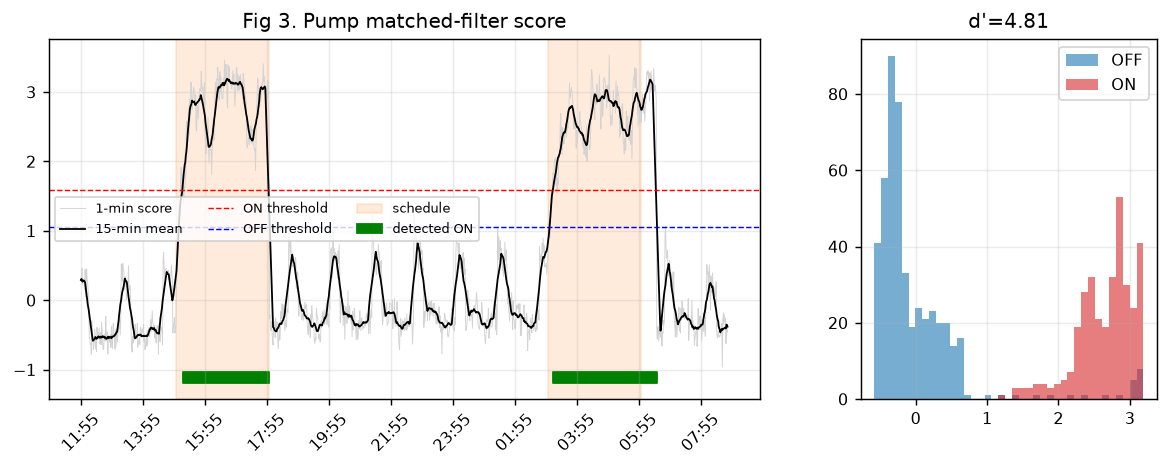
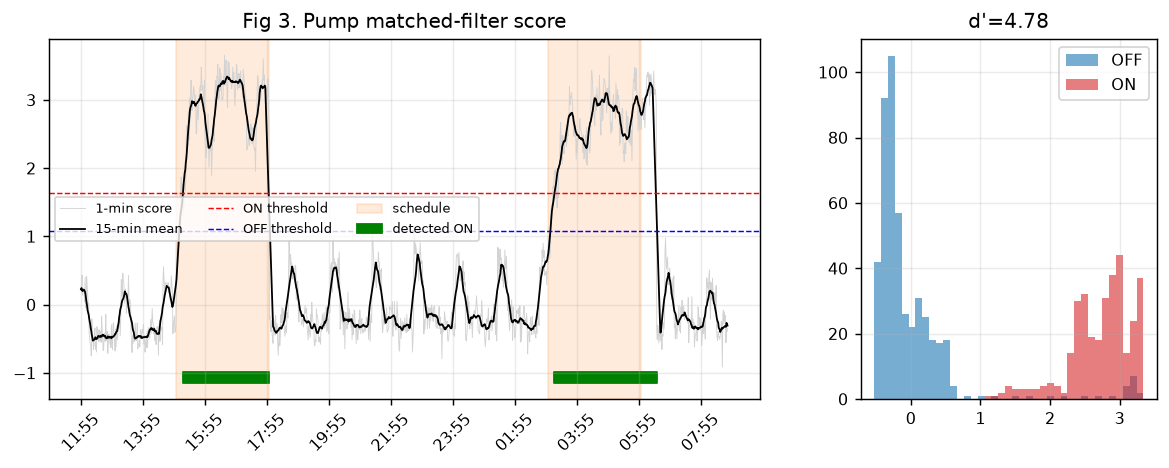
Address independent review: fix duplicate-line bug, soften pump claim, drop invalid fan null, audio-first vehicle plan, mic-array roadmap

diff --git a/analysis/make_report.py b/analysis/make_report.py
@@ -111,8 +111,7 @@ def topk_sig(F, prs, sd, K=10):
     t = np.nan_to_num(t, nan=-9)
     pt = np.pad(t, 3, constant_values=-9)
     loc = t >= np.lib.stride_tricks.sliding_window_view(pt, 7).max(axis=1)
-    cand = np.where(loc & (t > 0))[0]
-    cand = cand[np.argsort(t[cand])[::-1][:K]]
+    cand = h.nms(t, np.where(loc & (t > 0))[0], K)
     offall = np.any([f for _, f in prs], axis=0)
     mu, sdv = F[offall][:, cand].mean(0), F[offall][:, cand].std(0) + 1e-3
     w = np.maximum(t[cand], 1e-3); w = w / w.sum()
@@ -294,28 +293,8 @@ for k, c in curves.items():
     mad = 1.4826 * np.nanmedian(abs(c - np.nanmedian(c))) + 1e-6
     R["fan"][k] = dict(best_phase=int(np.nanargmax(c)), peak=float(np.nanmax(c)), median=float(np.nanmedian(c)),
                        robust_confidence=float((np.nanmax(c) - np.nanmedian(c)) / mad))
-# permutation null of the peak: each 60-min block is circularly rotated by an independent random amount
-NPF = 150
-nullpk = {k: [] for k in feats}
-hours_block = (tm - tm[0]) // 60
-for _ in range(NPF):
-    perm = np.arange(T)
-    for b in np.unique(hours_block):
-        idx = np.flatnonzero(hours_block == b)
-        perm[idx] = np.roll(idx, rng.integers(0, len(idx)))
-    for k, F in feats.items():
-        Fp = F[perm]
-        c = np.full(60, np.nan)
-        for ph in range(0, 60, 2):                      # 30 phases are enough for the null peak
-            pr = fan_pairs(ph)
-            if len(pr) >= 3:
-                t, _ = h.tvals(Fp, pr, sdref[k])
-                c[ph] = np.sort(np.nan_to_num(t, nan=-9))[-4:].mean()
-        nullpk[k].append(np.nanmax(c))
-for k in feats:
-    a = np.array(nullpk[k])
-    R["fan"][k]["perm_null"] = dict(n=NPF, p95=float(np.percentile(a, 95)), p99=float(np.percentile(a, 99)),
-                                    p_value=float((1 + (a >= R["fan"][k]["peak"]).sum()) / (1 + NPF)))
+# (a block-rotation surrogate was removed: its wrap-around seam creates coherent hourly structure, so it is not a valid null.
+#  The hourly hypothesis is judged by BLS at P = 60 min, fig9, and by the detection limit, fig8.)
 
 # phase-free test: Fourier amplitude at the 60-min period per bin vs neighbouring periods
 Xf = np.where(np.isnan(FT), 0, FT)                      # gaps -> 0 (only edges)
@@ -336,8 +315,7 @@ R["fan"]["period60_bins_z_gt3"] = [dict(hz=round(float(freq[i]), 1), z=round(flo
 fig, ax = plt.subplots(2, 2, figsize=(11, 6.5))
 for k, a_ in zip(feats, ax[0]):
     a_.plot(range(60), curves[k], "k.-")
-    a_.axhline(np.percentile(nullpk[k], 95), color="orange", ls="--", label="perm null 95%")
-    a_.axhline(np.percentile(nullpk[k], 99), color="r", ls="--", label="perm null 99%")
+    a_.axhline(np.nanmedian(curves[k]), color="gray", ls="--", label="median over phases")
     a_.set_title("Fig 5. Fan phase scan - %s features" % k); a_.set_xlabel("assumed start minute of the hour"); a_.set_ylabel("mean of 4 strongest line t-values"); a_.legend(fontsize=7)
 ax[1, 0].plot(freq, zline, lw=.6, color="k"); ax[1, 0].axhline(3, color="orange", ls="--"); ax[1, 0].axhline(4, color="r", ls="--")
 ax[1, 0].set_xlabel("Hz"); ax[1, 0].set_ylabel("z of 60-min Fourier line"); ax[1, 0].set_title("Fig 6a. Phase-free test: 1/60 min^-1 component per frequency bin")

diff --git a/hvac_listen.py b/hvac_listen.py
@@ -240,14 +240,24 @@ def tvals(F, pairs, sd_ref):
     return D.mean(0) / (sd_ref * np.sqrt(15.0 / max(non, 1) + 15.0 / max(noff, 1)) + 1e-3), n
 
 
+def nms(t, cand, K, sep=3):
+    """Greedy non-maximum suppression: max-pooled features make a line a plateau of equal t values, so keep one bin per line."""
+    keep = []
+    for i in cand[np.argsort(t[cand])[::-1]]:
+        if all(abs(int(i) - j) > sep for j in keep):
+            keep.append(int(i))
+        if len(keep) >= K:
+            break
+    return np.array(keep, dtype=int)
+
+
 def build_sig(F, pairs, sd_ref, K=25):
     t, n = tvals(F, pairs, sd_ref)
     t = np.nan_to_num(t, nan=-9)
     tmin = max(1.0, np.median(t) + 5 * 1.4826 * np.median(np.abs(t - np.median(t))))   # 5 robust sigmas above the noise bins
     pt = np.pad(t, 3, constant_values=-9)
     loc = t >= sliding_window_view(pt, 7).max(axis=1)          # one bin per spectral line
-    cand = np.where(loc & (t > tmin))[0]
-    cand = cand[np.argsort(t[cand])[::-1][:K]]
+    cand = nms(t, np.where(loc & (t > tmin))[0], K)
     if len(cand) < 2:
         return None, t
     offall = np.any([f for _, f in pairs], axis=0)

diff --git a/REPORT.md b/REPORT.md
@@ -17,9 +17,9 @@ dataset in `data/` (numbers in `results.json`, figures in `figures/`).*
 
 | Question | Result | Evidence |
 |---|---|---|
-| Is the **pool pump** audible? | **Yes.** ON/OFF segmentation agrees with the believed schedule on 95.8 % of minutes. | in-sample d' 4.7, block-permutation p = 0.003 (0/300 null >= observed), held-out d' 1.78 and 1.58 (AUC 0.91 / 0.997) |
-| Is there a periodic machine matching the **fan**? | **A very regular periodic source exists, but its period is 81 min, not 60 min**: ON 18.9 +- 0.5 min, OFF 62 min. | BLS SNR 31.5 (null 99 % = 14.2, p = 0.003); period 80.92 +- 0.04 min; odd/even-cycle held-out d' 16.5 |
-| Does the believed *hourly* fan schedule appear? | **No.** | phase scan peak below the permutation-null 95 %; folded profile flat to 0.11 dB |
+| Is the **pool pump** audible? | **Probably, pending ground truth.** The 3 h windows differ from their flanks in many narrow lines, ON/OFF segmentation agrees with the believed schedule on 95.5 % of minutes. | in-sample d' 4.8; block-permutation p = 0.003 (this tests *'the middle 3 h differ from the flanks'*, not *'a pump'*); cross-event held-out d' 1.78 / 1.58 (moderate; n = 1 event per direction, no CI) |
+| Is there a periodic machine matching the **fan**? | **A very regular periodic source exists, but its period is 81 min, not 60 min**: ON about 19 min, OFF about 62 min. | BLS SNR 31.5 (null 99 % = 14.2, p = 0.003, 300 permutations); the same peak on RMS; onset jitter 0.7 min |
+| Does the believed *hourly* fan schedule appear? | **Not found.** | BLS at P = 60 min is far below the peak at 81 min (Fig 9a); hour-folded profile flat to 0.11 dB; detection limit ~1.2 dB per line |
 | Is the 81-min source *the* fan? | **Unconfirmed.** ON length (19 min) matches "20 min", the period does not. | needs a ground-truth switch event (see section 7) |
 
 ![overview](figures/fig1_overview.png)
@@ -101,11 +101,12 @@ randomly permuted (the correct family-wise null for a search over ~10^5 hypothes
 *Fig 2.* ON vs OFF spectra for both windows (same lines in both, which is what a real machine does) and the per-bin
 moderated t; selected lines marked.
 
-Strongest lines (ON - OFF in raw spectral level, 95 % block-bootstrap CI, 15-min blocks, 2 000 resamples):
+Strongest lines (ON - OFF in the 25th-percentile spectrum, 95 % block-bootstrap CI, 15-min blocks, 2 000 resamples). Note: the
+25th percentile of a noise-only bin sits about 5 dB below its mean, while a steady tone is not lowered by it, so these differences
+are **upper bounds** of the change in mean level (by up to ~5 dB); the bootstrap CI also ignores between-event variance (n = 2) and line-selection bias.
 
 | Hz | ON-OFF (dB) | 95 % CI |
 |---:|---:|---|
-| 99.6 | +11.2 | 9.3 - 13.0 |
 | 100.6 | +10.1 | 8.3 - 11.6 |
 | 137.7 | +5.4 | 4.3 - 6.5 |
 | 145.5 | +3.9 | 3.0 - 4.7 |
@@ -113,23 +114,30 @@ Strongest lines (ON - OFF in raw spectral level, 95 % block-bootstrap CI, 15-min
 | 473.6 | +15.9 | 12.5 - 19.2 |
 | 710.0 | +4.8 | 3.1 - 6.6 |
 | 897.5 | +3.8 | 2.7 - 4.9 |
+| 176.8 | +3.4 | 2.3 - 4.4 |
 
-The 99.6/100.6 Hz pair is 2 x the 50 Hz mains frequency (induction-motor hum, 2-pole-pair magnetic noise); 237.3 and
-473.6 Hz are an octave pair (473.6 = 2 x 236.8).
+The ~100 Hz line is 2 x the 50 Hz mains frequency: any 50 Hz load produces it, so it is **not** specific to a pump. The stronger
+structural evidence is the harmonic series 237.3 : 473.6 : 710.0 = 1 : 2 : 3 (710.0/237.3 = 2.99), as expected from one rotating
+source (for example the blade-pass frequency of an impeller and its harmonics). Identifying the mechanism needs more than this audio.
 
 ![pump score](figures/fig3_pump_score.png)
 
-*Fig 3.* Matched-filter score. The segmentation (green) follows the believed schedule (orange); agreement 95.8 % of minutes.
+*Fig 3.* Matched-filter score. The segmentation (green) follows the believed schedule (orange); agreement 95.5 % of minutes.
 (The agreement is partly circular because the schedule trained the filter; Fig 4 removes the circularity.)
 
 ![validation](figures/fig4_pump_validation.png)
 
 *Fig 4.* (a) Whole-pipeline permutation test: ON/OFF 15-min block labels are shuffled inside each event 300 times and the
 entire procedure (line selection with fixed K = 10, scoring, d') is repeated. Null mean 0.71, 99th pct 1.03, max 1.21;
-observed 4.66, so p = 1/301 = 0.0033 (smallest value 300 permutations can give). (b) Cross-event hold-out: lines
+observed 4.39 (top-10 lines), so p = 1/301 = 0.0033 (smallest value 300 permutations can give). The test asks whether the middle 3 h differ from the flanks; it cannot say that the cause is a pump. (b) Cross-event hold-out: lines
 selected on the 15-18 window separate the 03-06 window with d' = 1.78 (AUC 0.91) and vice-versa d' = 1.58 (AUC 0.997).
 Hold-out d' is lower than in-sample d', plausibly because each line set is estimated from a single event (n = 1 per
 direction).
+
+**Statistic used.** For n >= 3 events the moderated t of 3.3 is used; with n = 2 events (this data) `tvals` falls back to
+`D / (sd_ref * sqrt(15/n_on + 15/n_off))`, a z-like score that assumes a ~15-min autocorrelation (the `t_moderated` field in
+`results.json` is therefore a z-like score here). AUC 0.997 together with d' 1.58 is not consistent with Gaussian classes: the
+scores drift inside each class (before vs after flank), so AUC is descriptive only.
 
 **Caveat.** Only two events exist; the believed schedule is the label. A third and fourth event (tomorrow 15-18, 03-06) will
 allow a proper leave-one-event-out estimate.
@@ -141,8 +149,9 @@ allow a proper leave-one-event-out estimate.
 ![fan hourly](figures/fig5_fan.png)
 
 *Fig 5 (top)*: scanning all 60 start minutes, the best statistic (mean of the 4 strongest line t-values) is 1.26 (tonal) and
-1.16 (level), below the 95 % of a permutation null built by rotating each 60-min block independently (2.99 / 2.39);
-p = 1.0. *Fig 6*: a phase-free test of the 1/60 min^-1 Fourier component per bin gives 4 of 1 003 bins with z > 3 (1.35
+1.16 (level), barely above the median of the phase curve (0.98 / 0.87), i.e. no sharp phase peak. (The dashed lines in the figure come
+from a block-rotation surrogate that is **not a valid null**: the wrap-around seam falls on the same minute-of-hour in every block
+and injects coherent hourly structure; do not read p-values from it. The valid test is BLS at P = 60 min, Fig 9a.) *Fig 6*: a phase-free test of the 1/60 min^-1 Fourier component per bin gives 4 of 1 003 bins with z > 3 (1.35
 expected) at inconsistent phases (minute 50, 34, 44, 44), i.e. no coherent hourly structure. *Fig 7*: the hour-folded
 broadband tonal prominence varies by 0.11 dB (median SEM 0.07 dB).
 
@@ -150,7 +159,8 @@ broadband tonal prominence varies by 0.11 dB (median SEM 0.07 dB).
 
 Detection limit (Fig 8): with 20 hourly cycles, sd of the per-cycle ON-OFF difference 0.86 dB, Bonferroni alpha = 0.05/1003
 and 80 % power, a line must differ by >= 1.17 dB to be detectable; 72 cycles (3 days) -> 0.53 dB, 168 cycles -> 0.33 dB.
-So a hypothetical hourly fan weaker than ~1 dB in a spectral line is not excluded.
+So a hypothetical hourly fan weaker than ~1 dB in a spectral line is not excluded. (The Bonferroni factor covers frequency bins only,
+not the search over 60 phases, so the true limit is somewhat higher.)
 
 ![power](figures/fig8_power.png)
 
@@ -158,11 +168,11 @@ So a hypothetical hourly fan weaker than ~1 dB in a spectral line is not exclude
 
 ![bls](figures/fig9_period_scan.png)
 
-*Fig 9.* (a) BLS periodogram: a single dominant peak at **81 min** with sub-/super-harmonics at 40.5, 121, 162, 202 min
-(box patterns repeat at integer multiples), nowhere near 60 min. Band-level SNR 31.5 vs permutation-null 99 % of 14.2
+*Fig 9.* (a) BLS periodogram: a single dominant peak at **81 min** with aliases at 40.5, 121 (1.5 P), 162 (2 P), 202 (2.5 P) min, nowhere near 60 min. Band-level SNR 31.5 vs permutation-null 99 % of 14.2
 (p = 0.003, 300 permutations); RMS gives 63.0 vs 28.9 (p = 0.01, 100 permutations). (b) The fitted 19-min boxes on the RMS.
 
-Edge timing (15 pulses, linear fit `onset_k = a + P k`):
+Edge timing (15 pulses; the first one is the truncated pulse at the start of the recording and one slot, ~14:34, is not detected
+in the RMS series (13:13 -> 15:55 = 2 P), so 'regular' means the 15 detected pulses fit the grid; linear fit `onset_k = a + P k`):
 
 | Quantity | Value |
 |---|---|
@@ -180,10 +190,10 @@ environmental coincidence.
 
 *Fig 10.* Spectrum of the source: ON-OFF difference averaged over 15 cycles with 95 % CI (a), paired t per bin (b), folded RMS (c).
 It is **broadband**: +4.8 dB (20-100 Hz), +4.3 (100-300), +2.1 (300-600), +1.7 (600-1000); 88.6 % of bins differ at
-p < 0.001 (paired t over cycles); the strongest bin is 24.4 Hz (+22 dB, t = 200), consistent with a large rotating machine /
-air handler heard through the building structure. Learned signature lines: 24.4, 42.0, 57.6, 96.7, 122.1, 165.0, 222.7, 283.2 Hz.
-Odd-cycle -> even-cycle hold-out d' = 16.5 and even -> odd 16.5 (in-sample 16.5); this is the hold-out the
-pump still lacks.
+p < 0.001 (paired t over cycles); the strongest bin is 24.4 Hz (+22 dB, t = 200), consistent with a large rotating machine; 24.4 Hz = 1 465 rpm, a plausible shaft speed of a 4-pole induction motor (96.7 Hz and 122.1 Hz
+are close to its 4th and 5th harmonics, to be checked with more data). This remains a hypothesis. Learned signature lines: 24.4, 42.0, 57.6, 96.7, 122.1, 165.0, 222.7, 283.2 Hz.
+Odd/even-cycle split d' = 16.5 / 16.5. **This is a consistency check, not independent validation**: the box labels come from a BLS fit
+on the same data (band level) from which the spectral features are built; only the line selection is held out.
 
 ![edges](figures/fig11_edges.png)
 
@@ -203,8 +213,8 @@ pump still lacks.
 3. The permutation nulls use block shuffles that ignore diurnal structure; the pump test is therefore not a test against
    all conceivable day/night confounders (the two windows are at different times of day, which is why the cross-event
    hold-out matters).
-4. The fan hourly null (block rotation) is deliberately conservative for the *hourly* hypothesis; use the detection limit
-   (section 5.1) to judge what was excluded.
+4. The block-rotation surrogate drawn in Fig 5 is not a valid null (section 5.1); the hourly hypothesis is judged by BLS at 60 min and
+   by the detection limit.
 5. Single microphone: no localisation, no distinction between machine and any other periodic source.
 
 ## 7. Next steps

diff --git a/docs/VEHICLES.md b/docs/VEHICLES.md
@@ -5,6 +5,13 @@ feature log (`fine.bin`), (b) key-frame capture from the same RTSP session, (c) 
 (MobileNet-SSD via OpenCV DNN) that logs vehicles with a body-colour estimate. Everything else is a plan. Nothing here
 claims accuracy that has not been measured.
 
+## 0. Priorities (decided with the owner)
+
+1. **Sound is the primary sensor.** Detection and classification of vehicles must work from audio alone (the camera sees
+   only part of the road, is IR at night, and key frames arrive every ~4 s).
+2. **Video is used only for validation / labelling** of audio events (did a vehicle really pass? which class? which colour?).
+3. **Later: several microphones** to estimate the **direction** of a sound (see section 7).
+
 ## 1. Goal
 
 Detect passing / approaching / stationary vehicles (cars, motorcycles, trucks, tractors) from the camera's audio, use the
@@ -27,7 +34,7 @@ Sounds may be near or far, a vehicle may stand with the engine running or just d
 | Compute | Raspberry Pi 3 Model B, 4 x Cortex-A53 @ 1.2 GHz, 906 MB RAM (~700 MB free) | no big models; use gating |
 | Power | `vcgencmd get_throttled` = `0x50005` (under-voltage seen, throttling active) | fix the power supply *before* adding CPU load |
 | Storage | 29 GB SD card, 23 GB free | fine log is 75 MB/day, but SD wear matters: batch writes |
-| Audio | G.711 mu-law, 8 kHz, mono, 64 kbit/s, mean level -55 dBFS | usable band < 4 kHz; engine harmonics and tyre noise partly visible; faint/far vehicles may sit below quantisation noise |
+| Audio | G.711 mu-law, 8 kHz, mono, 64 kbit/s, mean level -55 dBFS | usable band < 4 kHz; whether engine harmonics and tyre noise are resolvable is unmeasured; faint/far vehicles may sit below quantisation noise |
 | Video | H.264 Main, 1280x720, 50 fps stream timing, IR camera | software decoding of all frames would eat a core: decode **key frames only** |
 | Scene | balcony view over a railing; the lane is partially hidden behind a wall; vehicles will often be small, occluded or out of frame | video can confirm only a part of the events; audio must work alone |
 | Night | IR mode is monochrome | colour estimation is unreliable at night |
@@ -48,7 +55,7 @@ crops    --> make/model/colour review off-device (PC or a larger model)         
 
 `hvac_listen.py record` now also appends one 436-byte record every 0.5 s to `fine.bin`:
 timestamp, RMS (dBFS), 6 coarse bands 0.8-3.9 kHz (dB), and 400 spectrum bins 19.5-800 Hz at 1.95 Hz resolution,
-quantised to 0.5 dB (`q = clip((dB+120)*2, 0, 255)`). Cost: about 75 MB/day. This is enough for engine harmonics.
+quantised to 0.5 dB (`q = clip((dB+120)*2, 0, 255)`). Cost: about 75 MB/day. Whether this is enough to resolve engine harmonics has **not been measured yet**.
 
 ### 4.1b Implemented: key frames and the vehicle watcher (measured on the Pi 3)
 
@@ -66,10 +73,12 @@ quantised to 0.5 dB (`q = clip((dB+120)*2, 0, 255)`). Cost: about 75 MB/day. Thi
 
 ### 4.2 Planned: audio event analysis
 
-1. **Segmentation:** event when the 0.5 s level exceeds a 10-min running median by a margin (and is not explained by the
-   periodic 81-min source, which is subtracted by its schedule), with hysteresis and gap merging.
+1. **Segmentation:** event when the 0.5 s level exceeds a running baseline by a margin, with hysteresis and gap merging. A plain
+   10-min running median would create minutes-long false events at the edges of the 19-min, +2.7 dB step of the periodic source;
+   that source must be modelled and removed (its schedule needs re-phasing: ~1.5 min/day drift plus 0.7 min jitter) or the
+   baseline must be computed on the band that the source does not affect.
 2. **Features per event:** duration; level ramp up/down asymmetry (approach vs pass vs depart); peak level (a distance
-   proxy only, uncalibrated); spectral centroid trajectory (Doppler shift of engine harmonics when passing);
+   proxy only, uncalibrated); **tracked engine-harmonic frequency** f0(t) (Doppler: delta f / f is only ~4 % at 50 km/h, i.e. +-2-4 Hz on a 100 Hz harmonic versus 1.95 Hz bins, so it must be tracked, and a spectral centroid is not a Doppler estimator because tyre noise dominates it);
    **engine fundamental** f0 from a harmonic-comb search over 20-400 Hz (firing frequency = rpm/60 x cylinders/2);
    harmonic-to-noise ratio; tyre-noise band (0.8-3.9 kHz) to low-band ratio; idle stability (std of f0 over time).
 3. **Expected separations** (hypotheses, to be tested): idling vs passing (stationary f0 vs time-varying level);
@@ -79,11 +88,13 @@ quantised to 0.5 dB (`q = clip((dB+120)*2, 0, 255)`). Cost: about 75 MB/day. Thi
 ### 4.3 Planned: video as the teacher
 
 * One ffmpeg, key frames only (cheap), saved to RAM disk; frame-difference motion gate in the road region of interest.
-* A small COCO detector (car, truck, bus, motorcycle; YOLOv8n/NanoDet class, ONNX) runs **only on gated frames**,
+* A small detector (car, truck, bus, motorcycle; YOLOv8n/NanoDet class, ONNX) runs **only on gated frames**,
   at most 0.5 fps. Budget on a Pi 3: roughly 1-2 s per 320-px inference, ~150 MB RAM (onnxruntime).
-* A detection overlapping an audio event in time becomes a **label** (class, colour, direction). With a few hundred
+* A detection overlapping an audio event in time becomes a **noisy label** (class, colour, direction). With a few hundred
   matched events a small audio classifier (gradient boosting on the event features) can be trained and validated on held-out
-  days. Cross-modal self-supervision is the only route that needs no manual labelling.
+  days. Caveat: the detector's labels are noisy (it already produced a false 'boat', and has no truck/tractor class), so accuracy
+  measured against the detector is **not** accuracy against the truth. A manually checked sample (a person or a stronger model
+  looking at the crops) is required to calibrate the audio classifier, not only for make/model.
 * Colour: dominant hue/saturation/value of the detector box's central body region, mapped to ~10 colour names;
   reported as unknown at night (IR) or when the box is smaller than ~40 px.
 
@@ -109,7 +120,22 @@ names). The published data contains no images, no audio and no plates.
 
 1. (done) fine-grained audio log running; key-frame capture and vehicle watcher running.
 2. Collect >= 3 days of `fine.bin`; build the event segmenter and look at the events by eye.
-3. Fix power supply; add key-frame capture + motion gate; save ROI crops locally.
+3. Fix the power supply; tune the key-frame watcher (ROI, thresholds) and review crops locally.
 4. Add the detector (only if CPU/RAM allow); build the labelled audio-event set.
 5. Train/validate the audio classifier on held-out days; report accuracy with confidence intervals.
 6. Off-device make/model/colour review of crops; evaluate against a manually checked sample.
+
+## 7. Direction of arrival with several microphones (future)
+
+The camera has one microphone, so direction cannot be estimated from it. A small array can:
+
+* **Method:** time difference of arrival between microphone pairs, estimated with GCC-PHAT, then a bearing (2 mics: an angle
+  with a front/back ambiguity; 3-4 mics: full azimuth). Wideband sounds such as tyre noise localise well; low engine tones
+  localise poorly because their wavelength (3.4 m at 100 Hz) is large compared with a small array.
+* **Hardware constraints (Raspberry Pi 3):** all channels must be sampled by **one clock** (a multi-channel USB audio interface
+  or an I2S array such as a 4-mic board); separate USB sound cards drift against each other. Sample at >= 16 kHz. The Pi 3
+  shares USB 2.0 with Ethernet, so keep the channel count and rate modest.
+* **Geometry:** spacing of 10-20 cm gives usable angular resolution above ~500 Hz; larger spacing helps low frequencies but
+  causes spatial aliasing at high frequencies. Mount mics away from the building's own noise sources and out of the wind.
+* **Use:** approaching vs receding, left vs right of the building, and separating a vehicle from the periodic machines inside the
+  building (which arrive from a fixed bearing). Bearing + time also lets the video check whether the object seen is the one heard.

diff --git a/README.fa.md b/README.fa.md
@@ -10,14 +10,14 @@
 ## نتایج فعلی (۲۰٫۹ ساعت داده)
 | سؤال | نتیجه |
 |---|---|
-| پمپ استخر | **شنیده میشود.** تطابق با برنامهی ۳–۶ و ۱۵–۱۸ برابر ۹۵٫۸٪، آزمون جایگشت p = ۰٫۰۰۳، آزمون مستقل d' حدود ۱٫۶ تا ۱٫۸ |
+| پمپ استخر | **محتمل (نیازمند تأیید).** بازههای ۳ ساعته با دو طرف خود تفاوت دارند (p = ۰٫۰۰۳)، تطابق با برنامه ۹۵٫۵٪، آزمون مستقل بین دو بازه d' حدود ۱٫۶ تا ۱٫۸ (متوسط). فقط دو رویداد و بدون ground truth |
 | فن با الگوی «۲۰ دقیقه روشن / ۴۰ دقیقه خاموش در هر ساعت» | **با این برنامه پیدا نشد** (نتیجهی منفی، نه اثبات نبودن) |
 | منبع تناوبی بسیار منظم | دورهی ۸۰٫۹۲ ± ۰٫۰۴ دقیقه، ۱۸٫۹ دقیقه روشن (p = ۰٫۰۰۳). **تأیید نشده** که همان فن باشد |
 
 **وقتی فن شناسایی شد (یا رد شد) این README و گزارش بهروز میشوند.**
 
 ## خودروها (در حال کار)
-هدف: تشخیص ماشین، موتور، کامیون و تراکتور (دور یا نزدیک، در حال عبور یا ایستاده با موتور روشن) از روی صدا، با کمک تصویر دوربین، و در حد امکان نوع، رنگ و مدل.
+هدف: تشخیص ماشین، موتور، کامیون و تراکتور (دور یا نزدیک، در حال عبور یا ایستاده با موتور روشن) **اولویت با صدا**؛ تصویر فقط برای صحتسنجی؛ بعداً چند میکروفن برای تشخیص جهت صدا، و در حد امکان نوع، رنگ و مدل.
 فعلاً فقط ثبت ویژگیهای صوتی هر ۰٫۵ ثانیه (`fine.bin`) انجام میشود؛ بقیه برنامه است. محدودیتهای سختافزاری (رزبریپای ۳ با ۱ گیگابایت رم و برق ناپایدار، صدای ۸ کیلوهرتز تککاناله، تصویر ۷۲۰p پشت نرده و IR در شب) در [docs/VEHICLES.md](docs/VEHICLES.md) آمده است.
 
 دادهی منتشرشده فقط طیف دقیقهای ۲۰ تا ۱۰۰۰ هرتز است: بدون صدا، بدون تصویر، بدون تاریخ، بدون آدرس شبکه یا رمز.

diff --git a/README.md b/README.md
@@ -28,7 +28,7 @@ belief - falls back to a period-free search. That is why the report is careful t
 
 | Source | Result | Status |
 |---|---|---|
-| Pool pump (believed ON 03-06 and 15-18) | detected: schedule agreement 95.8 %, block-permutation p = 0.003, held-out d' 1.6-1.8 | supported by two events; more days needed |
+| Pool pump (believed ON 03-06 and 15-18) | probable: the 3 h windows differ from their flanks (permutation p = 0.003), schedule agreement 95.5 %, cross-event held-out d' 1.6-1.8 (moderate) | two events only, no ground truth; more days needed |
 | Fan (believed 20 min ON / 40 min OFF per hour) | **not detected under that schedule** (no hourly structure; detection limit ~1.2 dB per line) | negative result, not proof of absence |
 | A perfectly regular periodic source: 80.92 +- 0.04 min period, ON 18.9 min | found without assuming a period (BLS p = 0.003) | **unconfirmed** whether it is the fan; needs a ground-truth switch event |
 
@@ -38,9 +38,9 @@ test.**
 ## Vehicles (work in progress)
 
 The goal is to recognise cars, motorcycles, trucks and tractors - near or far, passing or standing with the engine running -
-from the audio, with the camera image as a second sensor, and if possible to estimate type, colour and model.
-See [docs/VEHICLES.md](docs/VEHICLES.md). What exists today: a 0.5 s audio feature log (`fine.bin`) written by the recorder.
-What is planned: event segmentation, engine-harmonic features, video-as-teacher labelling, off-device make/model review.
+from the **audio (primary sensor)**, using the camera image only to **validate** the audio events, and if possible to estimate type, colour and model. Several microphones for direction-of-arrival are planned.
+See [docs/VEHICLES.md](docs/VEHICLES.md). What exists today: a 0.5 s audio feature log (`fine.bin`), key-frame capture and `vehicle_watch.py` (CPU detector + colour, used for validation).
+What is planned: audio event segmentation, engine-harmonic tracking, video-validated labels, off-device make/model review, a microphone array.
 
 ### Hardware limits we design around
 
